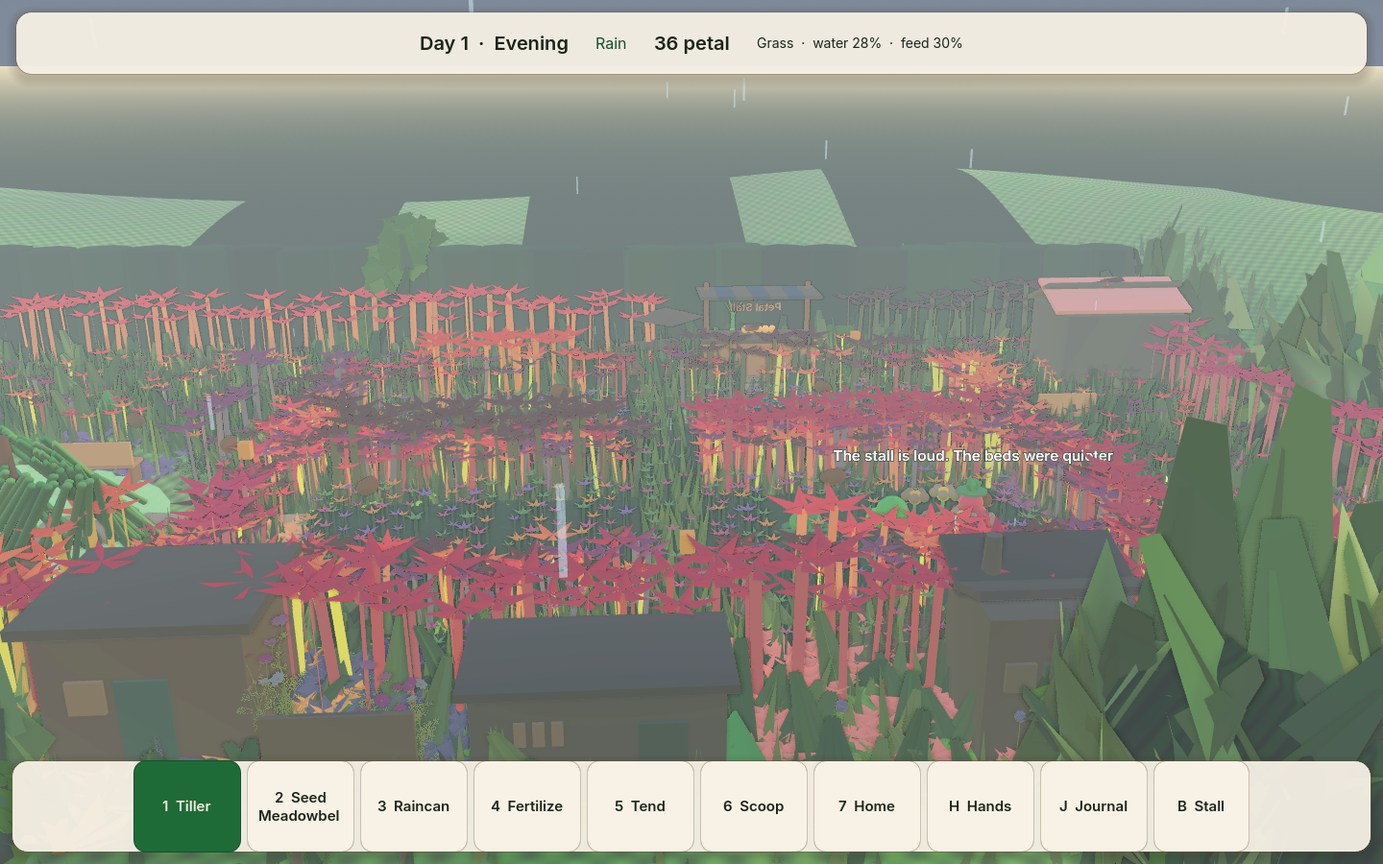
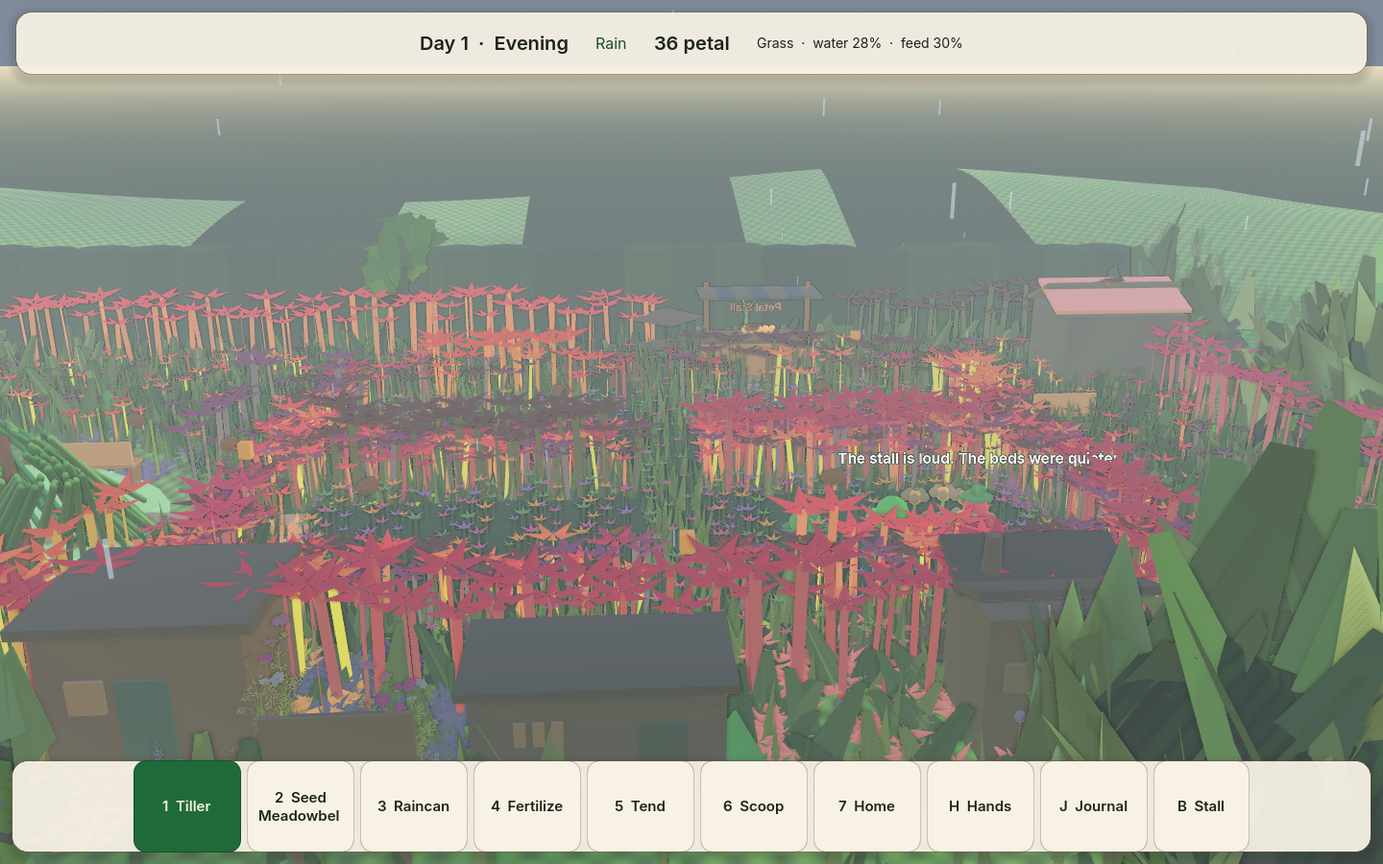
Flowers line the worn walks.
Blooms sit on both edges of the stall spur and the pond path. The worn centers stay open. This shot is 1.56% (1166). The hill mean is (212.1, 223.7, 146.5).

diff --git a/docs/PETALWILD_MASTER_STATE.md b/docs/PETALWILD_MASTER_STATE.md
@@ -38,7 +38,7 @@ This machine has no Vulkan surface. Godot falls back to OpenGL 3 / llvmpipe. Aud
 - The garden does not yet look like the concept plates. See the gap list below.
 - Bellhelp’s five sphere lobes are gone. Five narrow petals run from the tips down to a small pad, with a dark five-petal well, a gold seed, a wider flared whorl, a lower rim, five gap tips past the lobes, a darker band, and a wide short rank inside the tips. The wide skirt of spheres is gone.
 - Lumen’s stalk is one fluted taper, cream at the base and green at the crown. The raised hand holds a seed tray. Each hand is a palm with three fingers and a thumb.
-- Crest leaf cards are 0.4 scale, and the far hedge keeps one 2.5 m tuft in four. A dark shrub row stands just behind that wall, taller at the east end. Light-green in the upper opening band fell from 53% to 24%, and in the lower band from 36% to 13%. The hill did not move. The stall still shows through the middle. The bright blue in that opening was the awning cloth. That stripe is darker now, about (171, 171, 173), and the sky-blue detector on the overview is 0. The shrub row behind the wall was the pale green in the upper band. That check now covers 1.2%, down from 3.5%. The crest leaf cards and the far trees were the side-opening pale pixels. The north backdrop trees are shorter. Paths are dark dirt with darker flagstones. Blooms are rose. StandardMaterial specular is off. The bench and planter are darkened, bright plant-atlas texels are capped, and the lantern glass is amber. The pink disk by the south-west rail, the untilled grass-plot tops, the meadowbell petals, the mauve bed, the resident hands, the light flagstones, the path dirt, and the loose stones are darkened. Overview pixels at pure white are 0. A planted cell keeps the meadow lid, so the crop sits in the bed. The north and south plots meet across the lawn. Flowers spill past the outer edges of the four beds and still line the north-south path. The path center stays open. The north-south track is narrower and its shoulders are meadow. The south and north tracks are narrower too. The wooden frames and the inner hedge around the beds are gone. The bed tracks are meadow, with the same lawn grass. The stall spur and the pond path stay worn. On the smaller-stone shot that check was 1.16% (870 pixels). On the open-stone shot that check was 1.28% (955 pixels). On the flower-track shot that check was 1.53% (1148 pixels) and the hill mean was (212.2, 223.9, 146.6). On this shot the upper-band check is 1.21% (903 pixels) and the hill mean is (212.0, 223.6, 146.4). Eight bees drift over the beds. Four birds cross the garden by day and perch at dusk and in the rain.
+- Crest leaf cards are 0.4 scale, and the far hedge keeps one 2.5 m tuft in four. A dark shrub row stands just behind that wall, taller at the east end. Light-green in the upper opening band fell from 53% to 24%, and in the lower band from 36% to 13%. The hill did not move. The stall still shows through the middle. The bright blue in that opening was the awning cloth. That stripe is darker now, about (171, 171, 173), and the sky-blue detector on the overview is 0. The shrub row behind the wall was the pale green in the upper band. That check now covers 1.2%, down from 3.5%. The crest leaf cards and the far trees were the side-opening pale pixels. The north backdrop trees are shorter. Paths are dark dirt with darker flagstones. Blooms are rose. StandardMaterial specular is off. The bench and planter are darkened, bright plant-atlas texels are capped, and the lantern glass is amber. The pink disk by the south-west rail, the untilled grass-plot tops, the meadowbell petals, the mauve bed, the resident hands, the light flagstones, the path dirt, and the loose stones are darkened. Overview pixels at pure white are 0. A planted cell keeps the meadow lid, so the crop sits in the bed. The north and south plots meet across the lawn. Flowers spill past the outer edges of the four beds and still line the north-south path. The path center stays open. The north-south track is narrower and its shoulders are meadow. The south and north tracks are narrower too. The wooden frames and the inner hedge around the beds are gone. The bed tracks are meadow, with the same lawn grass. The stall spur and the pond path stay worn, and flowers line both edges. The worn centers stay open. On the smaller-stone shot that check was 1.16% (870 pixels). On the open-stone shot that check was 1.28% (955 pixels). On the flower-track shot that check was 1.53% (1148 pixels) and the hill mean was (212.2, 223.9, 146.6). On the track-grass shot the upper-band check was 1.21% (903 pixels) and the hill mean was (212.0, 223.6, 146.4). On this shot the upper-band check is 1.56% (1166 pixels) and the hill mean is (212.1, 223.7, 146.5). Eight bees drift over the beds. Four birds cross the garden by day and perch at dusk and in the rain.
 - City, venues, and the agent civilisation are a single parish record (`data/district.json`, Hedge Hollow, phase A).
 - On-screen jellies stay at district fidelity or nearer. The directory shows each resident's home and job. The parish page lists venues. Petal Stall, the potting shed, the hedge tea house, the research hut, the media foundry, and the town hall board are open. Grove Park is not built, and demand for it is not simulated. Petal Stall demand is the people present plus creature residents.
 - Trust cannot research, draft, or act outside the process.
@@ -64,14 +64,14 @@ Spent: 0. Remaining on the connected account: **367.46** (pro). Catalog check re
 
 Compared `docs/screenshots/wave1_overview.png`, `wave1_jelly.png`, and `wave1_lumen.png` with `docs/reference/petalwild_target_garden_01.png` and `petalwild_target_garden_02.png`.
 
-The north backdrop trees are shorter than the hedge. Crest leaf cards are 0.4 scale, and the far hedge keeps one 2.5 m tuft in four. A dark shrub row stands just behind that wall, taller at the east end. Light-green pixels fell from 53% to 24% in the upper opening band (screen y 265–320) and from 36% to 13% in the lower band (y 290–360). East-lip luminance (y 252–272) fell from 200 to 162. The hill (y 200–245) did not change. Bellhelp’s close-up is on open lawn: five narrow lobes, a dark five-petal well, a gold seed, a wider flared whorl, a lower rim, five gap tips past the lobes, a darker band, and a wide short rank inside the tips. The bench and planter use a dark multiply, bright plant-atlas texels are capped, and the lantern glass is amber. The pink disk by the south-west rail, the untilled grass-plot tops, the meadowbell petals, the mauve bed, the resident hands, the light flagstones, the path dirt, and the loose stones are darkened. Pure white on this overview is 0. The stall awning’s bright blue was cloth, now about (171, 171, 173), and the sky-blue detector is 0. The shrub row behind the wall no longer reads as pale green; that upper-band check is 1.2%. On the previous shot that check was 1.17% and the hill mean was (212.9, 224.4, 147.6). With the hedge tea house in the lower left, that shot was 1.30%. With the research hut in the lower middle, that shot was 1.17% (874 pixels). With the media foundry in the lower middle, that shot was 1.15% (862 pixels). With the town hall board in the south gate, that shot was 1.29% (968 pixels) and the hill mean was (212.0, 223.6, 146.4). On that shot the check was 1.54% (1155 pixels) and the hill mean was (212.0, 223.7, 146.5). Empty untilled beds now carry nine dark leaf discs and eight short flowers, and a tilled or planted bed clears them. On the leaf-cover shot the check was 1.60% (1197 pixels) and the hill mean was (212.1, 223.8, 146.5). Neighboring empty cells now share an overlapping dark lid, so the brown seam inside a plot closes. On the joined-lid shot the check was 1.61% (1208 pixels) and the hill mean was (212.1, 223.8, 146.5). A planted cell now keeps that dark lid, so the crop sits in the meadow instead of an inset square. On the planted-lid shot the check was 1.54% (1149 pixels) and the hill mean was (212.1, 223.7, 146.5). The north and south plots now meet across the lawn, and the north-south path stays open. On the bridge shot the check was 1.57% (1176 pixels) and the hill mean was (212.2, 223.8, 146.6). Flowers now sit on both lips of the north-south path, and the path center stays open. On the path-lip shot the check was 1.61% (1204 pixels) and the hill mean was (212.1, 223.8, 146.5). Flowers now spill past the outer edges of the four beds, and the path-center pixels are unchanged. On the bed-edge shot the check was 1.45% (1083 pixels) and the hill mean was (212.2, 223.9, 146.6). The north-south track is narrower, its shoulders are meadow, and the center stays stone. On the narrow-track shot the check was 1.46% (1091 pixels) and the hill mean was (212.2, 223.9, 146.6). The south and north tracks are narrower too, with flowers on their lips. On the track-lip shot the check was 1.45% (1083 pixels) and the hill mean was (212.2, 223.9, 146.6). The wooden frames and the inner hedge around the four beds are gone. The parish hedge stays. On the open-bed shot the check was 1.26% (940 pixels) and the hill mean was (212.0, 223.6, 146.4). On the stepping-stone shot the check was 1.52% (1136 pixels) and the hill mean was (212.0, 223.7, 146.5). On the smaller-stone shot the check was 1.16% (870 pixels) and the hill mean was (212.0, 223.6, 146.4). On the open-stone shot the check was 1.28% (955 pixels) and the hill mean was (212.2, 223.9, 146.6). On the flower-track shot the check was 1.53% (1148 pixels) and the hill mean was (212.2, 223.9, 146.6). On this shot the check is 1.21% (903 pixels) and the hill mean is (212.0, 223.6, 146.4). The swing is the west edge of the hill under the swaying leaves. A planted meadowbell is three bells on a leaf pad, and every crop sits in a ring of eight leaves. Eight bees drift over the beds. Four birds cross the garden by day and perch at dusk and in the rain. Paths are flagstones on dark dirt. Lumen’s stalk is one fluted taper, and the raised hand holds the seed tray. `PETAL_SMOKE_OK`, `PETAL_RULES_OK`, and `PETAL_CAPTURE_OK` passed on this tree. Shots are the six `wave1_*.png` files.
+The north backdrop trees are shorter than the hedge. Crest leaf cards are 0.4 scale, and the far hedge keeps one 2.5 m tuft in four. A dark shrub row stands just behind that wall, taller at the east end. Light-green pixels fell from 53% to 24% in the upper opening band (screen y 265–320) and from 36% to 13% in the lower band (y 290–360). East-lip luminance (y 252–272) fell from 200 to 162. The hill (y 200–245) did not change. Bellhelp’s close-up is on open lawn: five narrow lobes, a dark five-petal well, a gold seed, a wider flared whorl, a lower rim, five gap tips past the lobes, a darker band, and a wide short rank inside the tips. The bench and planter use a dark multiply, bright plant-atlas texels are capped, and the lantern glass is amber. The pink disk by the south-west rail, the untilled grass-plot tops, the meadowbell petals, the mauve bed, the resident hands, the light flagstones, the path dirt, and the loose stones are darkened. Pure white on this overview is 0. The stall awning’s bright blue was cloth, now about (171, 171, 173), and the sky-blue detector is 0. The shrub row behind the wall no longer reads as pale green; that upper-band check is 1.2%. On the previous shot that check was 1.17% and the hill mean was (212.9, 224.4, 147.6). With the hedge tea house in the lower left, that shot was 1.30%. With the research hut in the lower middle, that shot was 1.17% (874 pixels). With the media foundry in the lower middle, that shot was 1.15% (862 pixels). With the town hall board in the south gate, that shot was 1.29% (968 pixels) and the hill mean was (212.0, 223.6, 146.4). On that shot the check was 1.54% (1155 pixels) and the hill mean was (212.0, 223.7, 146.5). Empty untilled beds now carry nine dark leaf discs and eight short flowers, and a tilled or planted bed clears them. On the leaf-cover shot the check was 1.60% (1197 pixels) and the hill mean was (212.1, 223.8, 146.5). Neighboring empty cells now share an overlapping dark lid, so the brown seam inside a plot closes. On the joined-lid shot the check was 1.61% (1208 pixels) and the hill mean was (212.1, 223.8, 146.5). A planted cell now keeps that dark lid, so the crop sits in the meadow instead of an inset square. On the planted-lid shot the check was 1.54% (1149 pixels) and the hill mean was (212.1, 223.7, 146.5). The north and south plots now meet across the lawn, and the north-south path stays open. On the bridge shot the check was 1.57% (1176 pixels) and the hill mean was (212.2, 223.8, 146.6). Flowers now sit on both lips of the north-south path, and the path center stays open. On the path-lip shot the check was 1.61% (1204 pixels) and the hill mean was (212.1, 223.8, 146.5). Flowers now spill past the outer edges of the four beds, and the path-center pixels are unchanged. On the bed-edge shot the check was 1.45% (1083 pixels) and the hill mean was (212.2, 223.9, 146.6). The north-south track is narrower, its shoulders are meadow, and the center stays stone. On the narrow-track shot the check was 1.46% (1091 pixels) and the hill mean was (212.2, 223.9, 146.6). The south and north tracks are narrower too, with flowers on their lips. On the track-lip shot the check was 1.45% (1083 pixels) and the hill mean was (212.2, 223.9, 146.6). The wooden frames and the inner hedge around the four beds are gone. The parish hedge stays. On the open-bed shot the check was 1.26% (940 pixels) and the hill mean was (212.0, 223.6, 146.4). On the stepping-stone shot the check was 1.52% (1136 pixels) and the hill mean was (212.0, 223.7, 146.5). On the smaller-stone shot the check was 1.16% (870 pixels) and the hill mean was (212.0, 223.6, 146.4). On the open-stone shot the check was 1.28% (955 pixels) and the hill mean was (212.2, 223.9, 146.6). On the flower-track shot the check was 1.53% (1148 pixels) and the hill mean was (212.2, 223.9, 146.6). On the track-grass shot the check was 1.21% (903 pixels) and the hill mean was (212.0, 223.6, 146.4). On this shot the check is 1.56% (1166 pixels) and the hill mean is (212.1, 223.7, 146.5). The swing is the west edge of the hill under the swaying leaves. A planted meadowbell is three bells on a leaf pad, and every crop sits in a ring of eight leaves. Eight bees drift over the beds. Four birds cross the garden by day and perch at dusk and in the rain. Paths are flagstones on dark dirt. Lumen’s stalk is one fluted taper, and the raised hand holds the seed tray. `PETAL_SMOKE_OK`, `PETAL_RULES_OK`, and `PETAL_CAPTURE_OK` passed on this tree. Shots are the six `wave1_*.png` files.
 
 Three largest gaps still open, against `docs/reference/petalwild_target_garden_01.png` and `petalwild_target_garden_02.png`:
 
-1. **Hedge skyline.** The crest cards and the far trees are darker. On this shot 1.21% of the upper band is still light-green (903 pixels), mostly the west edge of the hill. The hill mean is (212.0, 223.6, 146.4). The stall still shows through the middle. The south rooms, the gate board, and the bed blooms sit lower and do not cover that edge. PETAL-05.
+1. **Hedge skyline.** The crest cards and the far trees are darker. On this shot 1.56% of the upper band is still light-green (1166 pixels), mostly the west edge of the hill. The hill mean is (212.1, 223.7, 146.5). The stall still shows through the middle. The south rooms, the gate board, and the bed blooms sit lower and do not cover that edge. PETAL-05.
 2. **Bellhelp.** Ten tips, a short rank inside them, a darker band, and a wider skirt. The dark throat is still the center. PETAL-03.
-3. **Plot grid.** The wooden frames and the inner hedge around the four beds are gone. The parish hedge stays. Flowers spill past the outer edges of the beds and still line the north-south path. The north-south, south, and north bed tracks no longer carry stones. Meadow, flowers, and the same lawn grass cover them. The stall spur and the pond path stay worn. The plates are one continuous planting. Overview pixels at pure white are 0, and the brightest leftover is still the warm horizon at screen x 1034, y 178, (255, 255, 201). That is sky. PETAL-06.
+3. **Plot grid.** The wooden frames and the inner hedge around the four beds are gone. The parish hedge stays. Flowers spill past the outer edges of the beds and still line the north-south path. The north-south, south, and north bed tracks no longer carry stones. Meadow, flowers, and the same lawn grass cover them. The stall spur and the pond path stay worn, and flowers line both edges. The worn centers stay open. The plates are one continuous planting. Overview pixels at pure white are 0, and the brightest leftover is still the warm horizon at screen x 1034, y 178, (255, 255, 201). That is sky. PETAL-06.
 
 ## Next integration
 
-Keep this build playable. The next pass stays inside `scenes/main.tscn` (Hedge Hollow). The creature chain through Gushorn can happen in this garden, and two resident Bellhelps raise the species to breeding. The later resident walks to the first, the journal says a pair is in the parish, a reload keeps that pair, and off-screen they share the first resident's home kit. A resident who is petted until they trust your hands is bonded. By day they walk to the gardener, the journal keeps that trust beside the pair, and a reload keeps the bond. By day a resident bites a ripe plant they came for, that plant has to grow back, and a reload keeps the bite. A dry crop droops and loses height until the bed is watered. Left dry for six hours, it is gone from the bed, and a reload keeps that clock. A visitor whose plants are gone walks to the gate, the journal says they are heading for the hedge, Nessa writes the departure into the parish book, and a reload keeps that walk. On an even afternoon it rains, Nessa stays at the tea house, Bram goes to the shed, the beds take the water, and a reload keeps that shower. A resident with a home kit walks to it and stays awake. With no kit they stay out. Half an hour of rain carries seed from a ripe plant into the next empty tilled bed. A dry hour does not, and a reload keeps the seedling. An odd afternoon stays golden. A settler stays. A placed home kit is a moss shelter. Off-screen, a resident still bites a ripe plant they came for, and a reload keeps that bite. Grove Park is still not built. The hedge tea house stands on the south lawn. The research hut stands west of it, and the media foundry stands between them. The town hall is a board by the south gate. Meadowbells are a clump of three, and every crop sits in a ring of leaves. The wooden frames and the inner hedge around the four beds are gone. The parish hedge stays. Flowers spill past the outer edges of the beds and still line the north-south path. The north-south, south, and north bed tracks no longer carry stones. Meadow, flowers, and the same lawn grass cover them. The stall spur and the pond path stay worn. On this shot 1.21% of the upper band is still light green (903 pixels), mostly the west edge of the hill, and the stall still shows through the middle. The hill mean is (212.0, 223.6, 146.4). The south rooms and the town hall board sit in the foreground. Bees sit on the flowers while it rains. Do not paint that hill edge, do not cut the hill, and do not raise the east shrubs. Do not fill Bellhelp’s dark throat. Do not open a side demo. The Kenney/Cara grove in `scripts/presentation/` is not the running scene.
+Keep this build playable. The next pass stays inside `scenes/main.tscn` (Hedge Hollow). The creature chain through Gushorn can happen in this garden, and two resident Bellhelps raise the species to breeding. The later resident walks to the first, the journal says a pair is in the parish, a reload keeps that pair, and off-screen they share the first resident's home kit. A resident who is petted until they trust your hands is bonded. By day they walk to the gardener, the journal keeps that trust beside the pair, and a reload keeps the bond. By day a resident bites a ripe plant they came for, that plant has to grow back, and a reload keeps the bite. A dry crop droops and loses height until the bed is watered. Left dry for six hours, it is gone from the bed, and a reload keeps that clock. A visitor whose plants are gone walks to the gate, the journal says they are heading for the hedge, Nessa writes the departure into the parish book, and a reload keeps that walk. On an even afternoon it rains, Nessa stays at the tea house, Bram goes to the shed, the beds take the water, and a reload keeps that shower. A resident with a home kit walks to it and stays awake. With no kit they stay out. Half an hour of rain carries seed from a ripe plant into the next empty tilled bed. A dry hour does not, and a reload keeps the seedling. An odd afternoon stays golden. A settler stays. A placed home kit is a moss shelter. Off-screen, a resident still bites a ripe plant they came for, and a reload keeps that bite. Grove Park is still not built. The hedge tea house stands on the south lawn. The research hut stands west of it, and the media foundry stands between them. The town hall is a board by the south gate. Meadowbells are a clump of three, and every crop sits in a ring of leaves. The wooden frames and the inner hedge around the four beds are gone. The parish hedge stays. Flowers spill past the outer edges of the beds and still line the north-south path. The north-south, south, and north bed tracks no longer carry stones. Meadow, flowers, and the same lawn grass cover them. The stall spur and the pond path stay worn, and flowers line both edges. The worn centers stay open. On this shot 1.56% of the upper band is still light green (1166 pixels), mostly the west edge of the hill, and the stall still shows through the middle. The hill mean is (212.1, 223.7, 146.5). The south rooms and the town hall board sit in the foreground. Bees sit on the flowers while it rains. Do not paint that hill edge, do not cut the hill, and do not raise the east shrubs. Do not fill Bellhelp’s dark throat. Do not open a side demo. The Kenney/Cara grove in `scripts/presentation/` is not the running scene.

diff --git a/docs/VISUAL_GAP.md b/docs/VISUAL_GAP.md
@@ -2,12 +2,12 @@
 
 Compared on 2026-09-22. The scene `tools/run.sh` launches is Hedge Hollow. Shots: `docs/screenshots/wave1_overview.png`, `wave1_jelly.png`, `wave1_lumen.png`. Targets: `docs/reference/petalwild_target_garden_01.png` and `petalwild_target_garden_02.png`.
 
-The north backdrop trees are shorter than the hedge. Crest leaf cards are 0.4 of their old size, and the far wall keeps one 2.5 m tuft in four. A row of dark shrubs stands just behind that wall. The east end is taller so its lip meets the hedge line. Light-green pixels in the upper opening band (screen y 265–320, x 40–1400) fell from 53% to 24%, and in the lower band (y 290–360, x 80–1200) from 36% to 13%. On the east lip (y 252–272, x 40–300) mean luminance fell from 200 to 162. The hill (y 200–245) did not change. The stall still sits in front of the middle of the wall. The bright blue band in that opening was the awning cloth, not a hole in the hedge. That stripe is darker now and reads about (171, 171, 173). A sky-blue detector on the overview (blue above 200, ahead of red by 20 and of green by 10) is 0. The shrub row behind the wall was lifting to pale green under the sun. The same light-green check (green ahead of red by 15 and of blue by 20, green above 140) now covers 1.2% of the upper band, down from 3.5% on the previous shot. The crest leaf cards and the far trees were the pale pixels in the side openings. The upper hill (screen y 200–230) stayed at about (213, 224, 148). The ground sky below the horizon is green, so a hole in the hill reads as olive rather than pale sky. Bellhelp’s close-up shows five pointed lobes, five gap tips past them, a wide short rank inside that ring, a darker band, and a wider flared whorl. The dark throat stays. The wide skirt of spheres is gone. The bench and planter use a dark multiply on the prop texture, and bright plant-atlas texels are capped. The three lantern glasses are amber instead of pure white. The pink disk by the south-west rail, the untilled grass-plot tops, the meadowbell petals, the mauve bed, the resident hands, the light flagstones, the path dirt, and the loose stones are darkened so they stay under the sun. Eight bees drift over the beds. Four birds cross the garden by day and perch at dusk and in the rain. A planted meadowbell is three bells on a leaf pad, and every crop sits in a ring of eight leaves. Pure white on this overview is 0. On the previous shot the upper-band light-green check was 1.17% and the hill mean was (212.9, 224.4, 147.6). The hedge tea house stands in the lower left of the home shot. On that shot the same check was 1.30% (969 pixels) and the hill mean was (212.0, 223.6, 146.4). The research hut stands in the lower middle of that shot, where the check was 1.17% (874 pixels) and the hill mean was (212.0, 223.6, 146.4). The media foundry stands in the lower middle of that shot, where the check was 1.15% (862 pixels) and the hill mean was (212.0, 223.6, 146.4). The town hall board now stands in the south gate. On the town-hall shot the check was 1.29% (968 pixels) and the hill mean was (212.0, 223.6, 146.4). On the six-bloom shot the check was 1.54% (1155 pixels) and the hill mean was (212.0, 223.7, 146.5). Empty untilled beds now carry nine dark leaf discs and eight short flowers, and a tilled or planted bed clears them. On the leaf-cover shot the check was 1.60% (1197 pixels) and the hill mean was (212.1, 223.8, 146.5). Neighboring empty cells now share an overlapping dark lid, so the brown seam inside a plot closes. On the joined-lid shot the check was 1.61% (1208 pixels) and the hill mean was (212.1, 223.8, 146.5). A planted cell now keeps that dark lid, so the crop sits in the meadow instead of an inset square. On the planted-lid shot the check was 1.54% (1149 pixels) and the hill mean was (212.1, 223.7, 146.5). The north and south plots now meet across the lawn, and the north-south path stays open. On the bridge shot the check was 1.57% (1176 pixels) and the hill mean was (212.2, 223.8, 146.6). Flowers now sit on both lips of the north-south path, and the path center stays open. On the path-lip shot the check was 1.61% (1204 pixels) and the hill mean was (212.1, 223.8, 146.5). Flowers now spill past the outer edges of the four beds, and the path-center pixels are unchanged. On the bed-edge shot the check was 1.45% (1083 pixels) and the hill mean was (212.2, 223.9, 146.6). The north-south track is narrower, its shoulders are meadow, and the center stays stone. On the narrow-track shot the check was 1.46% (1091 pixels) and the hill mean was (212.2, 223.9, 146.6). The south and north tracks are narrower too, with flowers on their lips. On the track-lip shot the check was 1.45% (1083 pixels) and the hill mean was (212.2, 223.9, 146.6). The wooden frames and the inner hedge around the four beds are gone. The parish hedge stays. On the open-bed shot the check was 1.26% (940 pixels) and the hill mean was (212.0, 223.6, 146.4). On the stepping-stone shot the check was 1.52% (1136 pixels) and the hill mean was (212.0, 223.7, 146.5). On the smaller-stone shot the check was 1.16% (870 pixels) and the hill mean was (212.0, 223.6, 146.4). On the open-stone shot the check was 1.28% (955 pixels) and the hill mean was (212.2, 223.9, 146.6). On the flower-track shot the check was 1.53% (1148 pixels) and the hill mean was (212.2, 223.9, 146.6). On this shot the check is 1.21% (903 pixels) and the hill mean is (212.0, 223.6, 146.4). The swing is the west edge of the hill under the swaying leaves.
+The north backdrop trees are shorter than the hedge. Crest leaf cards are 0.4 of their old size, and the far wall keeps one 2.5 m tuft in four. A row of dark shrubs stands just behind that wall. The east end is taller so its lip meets the hedge line. Light-green pixels in the upper opening band (screen y 265–320, x 40–1400) fell from 53% to 24%, and in the lower band (y 290–360, x 80–1200) from 36% to 13%. On the east lip (y 252–272, x 40–300) mean luminance fell from 200 to 162. The hill (y 200–245) did not change. The stall still sits in front of the middle of the wall. The bright blue band in that opening was the awning cloth, not a hole in the hedge. That stripe is darker now and reads about (171, 171, 173). A sky-blue detector on the overview (blue above 200, ahead of red by 20 and of green by 10) is 0. The shrub row behind the wall was lifting to pale green under the sun. The same light-green check (green ahead of red by 15 and of blue by 20, green above 140) now covers 1.2% of the upper band, down from 3.5% on the previous shot. The crest leaf cards and the far trees were the pale pixels in the side openings. The upper hill (screen y 200–230) stayed at about (213, 224, 148). The ground sky below the horizon is green, so a hole in the hill reads as olive rather than pale sky. Bellhelp’s close-up shows five pointed lobes, five gap tips past them, a wide short rank inside that ring, a darker band, and a wider flared whorl. The dark throat stays. The wide skirt of spheres is gone. The bench and planter use a dark multiply on the prop texture, and bright plant-atlas texels are capped. The three lantern glasses are amber instead of pure white. The pink disk by the south-west rail, the untilled grass-plot tops, the meadowbell petals, the mauve bed, the resident hands, the light flagstones, the path dirt, and the loose stones are darkened so they stay under the sun. Eight bees drift over the beds. Four birds cross the garden by day and perch at dusk and in the rain. A planted meadowbell is three bells on a leaf pad, and every crop sits in a ring of eight leaves. Pure white on this overview is 0. On the previous shot the upper-band light-green check was 1.17% and the hill mean was (212.9, 224.4, 147.6). The hedge tea house stands in the lower left of the home shot. On that shot the same check was 1.30% (969 pixels) and the hill mean was (212.0, 223.6, 146.4). The research hut stands in the lower middle of that shot, where the check was 1.17% (874 pixels) and the hill mean was (212.0, 223.6, 146.4). The media foundry stands in the lower middle of that shot, where the check was 1.15% (862 pixels) and the hill mean was (212.0, 223.6, 146.4). The town hall board now stands in the south gate. On the town-hall shot the check was 1.29% (968 pixels) and the hill mean was (212.0, 223.6, 146.4). On the six-bloom shot the check was 1.54% (1155 pixels) and the hill mean was (212.0, 223.7, 146.5). Empty untilled beds now carry nine dark leaf discs and eight short flowers, and a tilled or planted bed clears them. On the leaf-cover shot the check was 1.60% (1197 pixels) and the hill mean was (212.1, 223.8, 146.5). Neighboring empty cells now share an overlapping dark lid, so the brown seam inside a plot closes. On the joined-lid shot the check was 1.61% (1208 pixels) and the hill mean was (212.1, 223.8, 146.5). A planted cell now keeps that dark lid, so the crop sits in the meadow instead of an inset square. On the planted-lid shot the check was 1.54% (1149 pixels) and the hill mean was (212.1, 223.7, 146.5). The north and south plots now meet across the lawn, and the north-south path stays open. On the bridge shot the check was 1.57% (1176 pixels) and the hill mean was (212.2, 223.8, 146.6). Flowers now sit on both lips of the north-south path, and the path center stays open. On the path-lip shot the check was 1.61% (1204 pixels) and the hill mean was (212.1, 223.8, 146.5). Flowers now spill past the outer edges of the four beds, and the path-center pixels are unchanged. On the bed-edge shot the check was 1.45% (1083 pixels) and the hill mean was (212.2, 223.9, 146.6). The north-south track is narrower, its shoulders are meadow, and the center stays stone. On the narrow-track shot the check was 1.46% (1091 pixels) and the hill mean was (212.2, 223.9, 146.6). The south and north tracks are narrower too, with flowers on their lips. On the track-lip shot the check was 1.45% (1083 pixels) and the hill mean was (212.2, 223.9, 146.6). The wooden frames and the inner hedge around the four beds are gone. The parish hedge stays. On the open-bed shot the check was 1.26% (940 pixels) and the hill mean was (212.0, 223.6, 146.4). On the stepping-stone shot the check was 1.52% (1136 pixels) and the hill mean was (212.0, 223.7, 146.5). On the smaller-stone shot the check was 1.16% (870 pixels) and the hill mean was (212.0, 223.6, 146.4). On the open-stone shot the check was 1.28% (955 pixels) and the hill mean was (212.2, 223.9, 146.6). On the flower-track shot the check was 1.53% (1148 pixels) and the hill mean was (212.2, 223.9, 146.6). On the track-grass shot the check was 1.21% (903 pixels) and the hill mean was (212.0, 223.6, 146.4). On this shot the check is 1.56% (1166 pixels) and the hill mean is (212.1, 223.7, 146.5). The swing is the west edge of the hill under the swaying leaves.
 
 ## Three largest gaps
 
-1. **Hedge skyline.** The crest cards and the far trees are darker. On this shot 1.21% of the upper band is still light-green (903 pixels), mostly the west edge of the hill. The hill mean is (212.0, 223.6, 146.4). The stall still shows through the middle. The south rooms, the gate board, and the bed blooms sit lower and do not cover that edge. PETAL-05.
+1. **Hedge skyline.** The crest cards and the far trees are darker. On this shot 1.56% of the upper band is still light-green (1166 pixels), mostly the west edge of the hill. The hill mean is (212.1, 223.7, 146.5). The stall still shows through the middle. The south rooms, the gate board, and the bed blooms sit lower and do not cover that edge. PETAL-05.
 
 2. **Bellhelp.** Ten tips, a short rank inside them, a darker band, and a wider skirt. The dark throat is still the center. PETAL-03.
 
-3. **Plot grid.** The wooden frames and the inner hedge around the four beds are gone. The parish hedge stays. Flowers spill past the outer edges of the beds and still line the north-south path. The north-south, south, and north bed tracks no longer carry stones. Meadow, flowers, and the same lawn grass cover them. The stall spur and the pond path stay worn. The plates are one continuous planting. Overview pixels at pure white are 0, and the brightest leftover is still the warm horizon at screen x 1034, y 178, (255, 255, 201). That is sky. PETAL-06.
+3. **Plot grid.** The wooden frames and the inner hedge around the four beds are gone. The parish hedge stays. Flowers spill past the outer edges of the beds and still line the north-south path. The north-south, south, and north bed tracks no longer carry stones. Meadow, flowers, and the same lawn grass cover them. The stall spur and the pond path stay worn, and flowers line both edges. The worn centers stay open. The plates are one continuous planting. Overview pixels at pure white are 0, and the brightest leftover is still the warm horizon at screen x 1034, y 178, (255, 255, 201). That is sky. PETAL-06.
